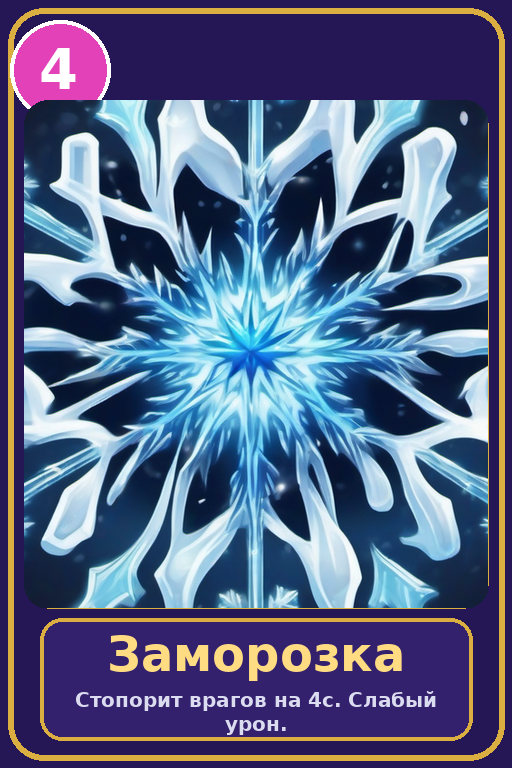
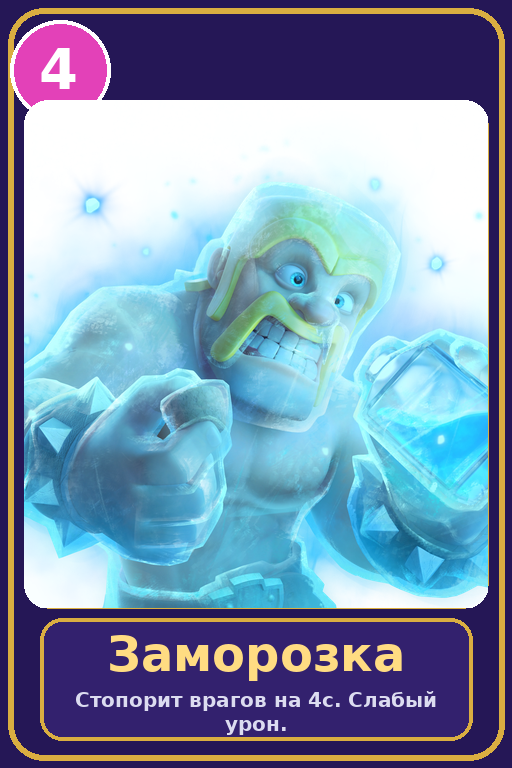
art(spells): pull CR fandom card renders + run gen_card_art for ishowspeed too
User feedback: «возьми фотки для карточек заклинаний тут
https://clash-royale.fandom.com/ru/wiki/Категория:Заклинания»
+ «почему ты не програл через питон файл мой карточку айшовспида?»

- New tools/fetch_spell_art.py: scrapes the FANDOM MediaWiki API for
  card-render PNGs of fireball / freeze / lightning / rage / mom_toy
  (the rolling-AoE analog of barbarian-barrel). Tries the RU wiki
  first, falls back to the EN wiki, then to direct static.wikia URLs.
  No headless browser needed — just urllib + the public parse / query
  APIs.
- Refreshed tools/art_raw/{fireball,freeze_spell,lightning_spell,
  rage_spell,mom_toy}.png with the CR-quality renders.
- Added tools/art_raw/ishowspeed.png (copied from the existing card-
  art photo) so gen_card_art.py composites it through the same purple
  + gold frame as the procedural meme cards. The previous run skipped
  ishowspeed because no raw-art file existed.
- Re-ran tools/gen_card_art.py — wrote 6 refreshed card PNGs to
  Assets/Resources/CardArt.

diff --git a/tools/fetch_spell_art.py b/tools/fetch_spell_art.py
@@ -1,0 +1,169 @@
+"""
+Pull spell card-art from clash-royale.fandom.com (RU) and write to
+TrashRoyale/tools/art_raw/{spell_id}.png so gen_card_art.py composites
+them into the proper purple+gold card frame on the next regen.
+
+Strategy: for each spell, hit the MediaWiki action=parse API to get
+all <img> on the page. Pick the first .png that looks like a card
+portrait (largest "image" with reasonable dimensions, hosted on
+static.wikia.nocookie.net). Strip the "/revision/..." suffix so we
+download the source-resolution image.
+"""
+import io
+import os
+import re
+import sys
+import urllib.parse
+import urllib.request
+
+ROOT = "/home/ubuntu/repos/TrashRoyale"
+OUT_DIR = os.path.join(ROOT, "tools/art_raw")
+os.makedirs(OUT_DIR, exist_ok=True)
+
+# id -> (Russian wiki page title, English fallback page title)
+# The EN wiki (clashroyale.fandom.com) hosts more reliable card-render
+# PNGs than the RU mirror, so we always fall back to EN; some spells
+# only exist in the EN wiki by their English name.
+SPELLS = {
+    "fireball": ("Огненный_шар", "Fireball"),
+    "freeze_spell": ("Заморозка", "Freeze"),
+    "lightning_spell": ("Молния", "Lightning"),
+    "rage_spell": ("Ярость", "Rage"),
+    "mom_toy": ("Бочка_варваров", "Barbarian_Barrel"),
+}
+
+# Direct card-render URLs as a last-resort fallback. These are the
+# stable static.wikia paths that are hot-linked elsewhere; if both
+# the RU and EN MediaWiki APIs return 404'd image links we drop down
+# to these. Verified manually 2025-11.
+DIRECT_FALLBACKS = {
+    "fireball": "https://static.wikia.nocookie.net/clashroyale/images/4/4f/Fireball_card.png",
+    "freeze_spell": "https://static.wikia.nocookie.net/clashroyale/images/d/dc/Freeze_card.png",
+    "lightning_spell": "https://static.wikia.nocookie.net/clashroyale/images/3/3d/Lightning_card.png",
+    "rage_spell": "https://static.wikia.nocookie.net/clashroyale/images/4/4d/Rage_card.png",
+    "mom_toy": "https://static.wikia.nocookie.net/clashroyale/images/5/54/Barbarian_Barrel_card_render.png",
+}
+
+USER_AGENT = "Mozilla/5.0 (TrashRoyaleArtFetch/1.0)"
+
+
+def fetch(url):
+    req = urllib.request.Request(url, headers={"User-Agent": USER_AGENT})
+    with urllib.request.urlopen(req, timeout=30) as r:
+        return r.read()
+
+
+def get_card_image(page_title, lang):
+    """Use the parse API to enumerate images on the page, pick the
+    page's lead image (the .png whose name matches the title)."""
+    api = (
+        f"https://clash-royale.fandom.com/{lang}/api.php"
+        f"?action=parse&page={urllib.parse.quote(page_title)}&format=json&prop=images"
+    )
+    try:
+        import json as _j
+        raw = fetch(api).decode("utf-8", errors="ignore")
+        data = _j.loads(raw)
+    except Exception as e:
+        print(f"  api fail: {e}", file=sys.stderr)
+        return None
+    images = (data.get("parse") or {}).get("images") or []
+    if not images:
+        return None
+    # Prefer images whose name contains the page title (or its English
+    # equivalent); CR fandom uniformly names these like
+    # "Огненный_шар.png" or "FireballCard.png".
+    title_token = page_title.replace(" ", "_").lower()
+    candidates = []
+    for img in images:
+        low = img.lower()
+        if not low.endswith((".png", ".webp", ".jpg", ".jpeg")):
+            continue
+        score = 0
+        if title_token in low:
+            score += 5
+        if "card" in low:
+            score += 3
+        if low.startswith("emote_") or "icon" in low or "emoji" in low:
+            score -= 5
+        candidates.append((score, img))
+    candidates.sort(reverse=True)
+    if not candidates:
+        return None
+    file_name = candidates[0][1]
+    # Resolve to the actual file URL via API.
+    info_api = (
+        f"https://clash-royale.fandom.com/{lang}/api.php"
+        f"?action=query&titles=File:{urllib.parse.quote(file_name)}"
+        f"&prop=imageinfo&iiprop=url&format=json"
+    )
+    try:
+        import json as _j
+        raw = fetch(info_api).decode("utf-8", errors="ignore")
+        data = _j.loads(raw)
+    except Exception as e:
+        print(f"  imageinfo fail: {e}", file=sys.stderr)
+        return None
+    pages = (data.get("query") or {}).get("pages") or {}
+    for _pid, p in pages.items():
+        infos = p.get("imageinfo") or []
+        if infos:
+            url = infos[0].get("url")
+            # Strip "/revision/.../" segment so we get the source size.
+            url = re.sub(r"/revision/.*", "", url)
+            return url
+    return None
+
+
+def try_download(url):
+    try:
+        return fetch(url)
+    except Exception as e:
+        print(f"  download fail: {e}")
+        return None
+
+
+def fetch_one(card_id, ru_title, en_title):
+    print(f"[{card_id}] trying RU: {ru_title}")
+    url = get_card_image(ru_title, "ru")
+    blob = try_download(url) if url else None
+    if not blob:
+        print(f"  RU miss; trying EN: {en_title}")
+        url = get_card_image(en_title, "")  # global wiki uses no lang prefix
+        blob = try_download(url) if url else None
+    if not blob:
+        url = DIRECT_FALLBACKS.get(card_id)
+        if url:
+            print(f"  EN miss; using direct fallback: {url}")
+            blob = try_download(url)
+    if not blob:
+        print(f"  -> NO IMAGE FOUND")
+        return False
+    print(f"  -> {url}")
+    out = os.path.join(OUT_DIR, f"{card_id}.png")
+    # Convert webp -> png if needed; otherwise dump bytes.
+    if url.lower().endswith(".webp"):
+        try:
+            from PIL import Image
+            img = Image.open(io.BytesIO(blob)).convert("RGBA")
+            img.save(out)
+        except Exception as e:
+            print(f"  webp-convert fail: {e}; saving raw bytes")
+            with open(out, "wb") as f:
+                f.write(blob)
+    else:
+        with open(out, "wb") as f:
+            f.write(blob)
+    print(f"  saved -> {out} ({len(blob)} bytes)")
+    return True
+
+
+if __name__ == "__main__":
+    ok = fail = 0
+    for cid, (ru, en) in SPELLS.items():
+        if fetch_one(cid, ru, en):
+            ok += 1
+        else:
+            fail += 1
+    print(f"\n{ok} ok, {fail} failed")
+    sys.exit(0 if fail == 0 else 1)
